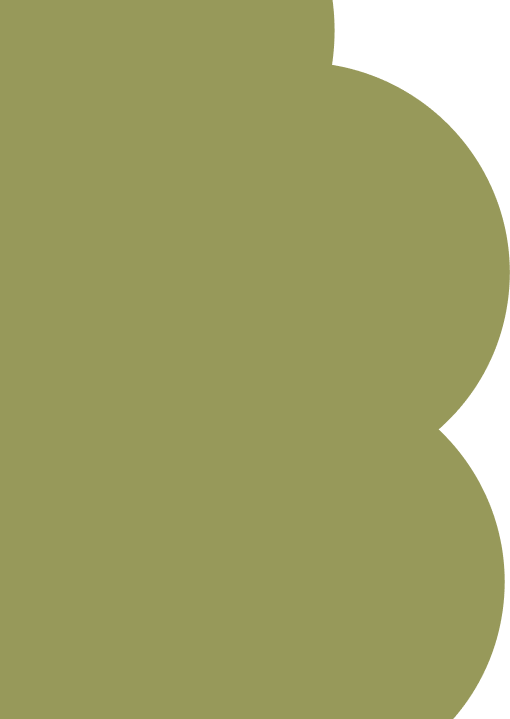
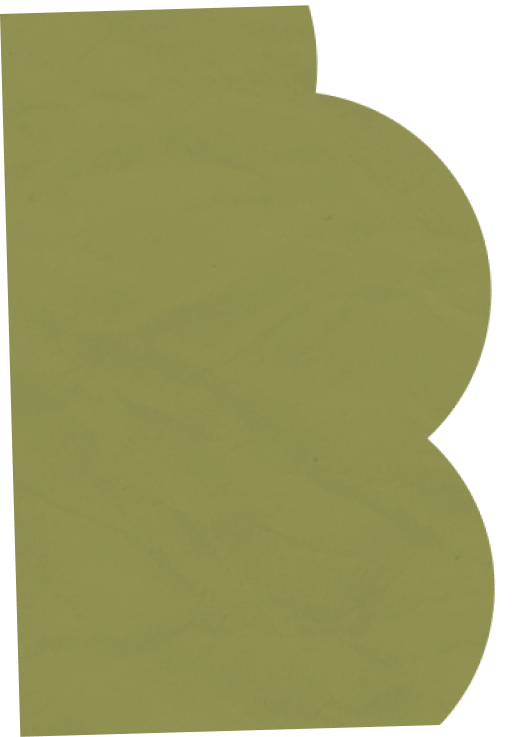
todas texturas

Changed region(s): [[0.0, 0.0, 1.0, 1.0], [0.0, 0.0918, 0.0588, 1.0]]

diff --git a/fabricaDeIdeias/src/styles/HomeTop.css b/fabricaDeIdeias/src/styles/HomeTop.css
@@ -145,7 +145,7 @@ html {
 /* Jacare */
 .nuvem2 {
   position: absolute;
-  left: 0vh;
+  left: -10vh;
   bottom: -49vw;
   width: 50%;
   z-index: 2;
@@ -184,12 +184,14 @@ html {
   position: absolute;
   top: 26vh;
   right: -6vw;
+  z-index: 2;
 }
 
 .bolaMenor {
   position: absolute;
   top: 31vh;
   right: -3vw;
+  z-index: 2;
 }
 
 /* elementos do título */
